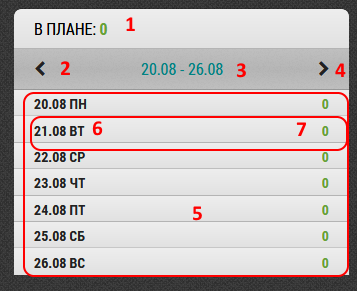
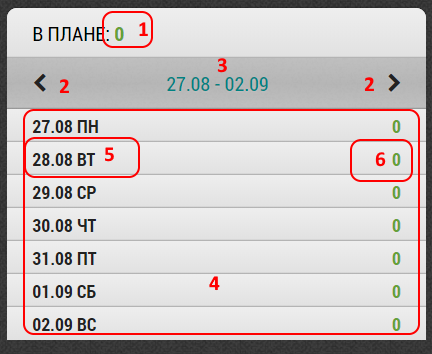
[fix] Переделки по комментариям

Changed region(s): [[0.0, 0.0, 1.0, 0.9897]]

diff --git a/src/guide/rep-planning-full-plan.md b/src/guide/rep-planning-full-plan.md
@@ -1,33 +1,47 @@
-## Планирование. Описание страницы "Подробный план"
+## Описание страницы "Подробный план"
 
 Страница "Подробный план" предназначена для того, 
 чтобы сотрудник мог в подробностях видеть свои прошедшие, текущие и будущие визиты.
+**Эта страница является основной для работы с запланированными визитами на выезде.**
 На странице можно менять дату визита, отменять визит, 
 перейти к редактированию и закрытию визита.
 В целом подробный план соответствует краткому плану, 
 но предоставляет расширенные возможности и информацию.
 
+Интерфейс "Подробный план" состоит из двух частей.
+
 ![](../images/rep-planning-full-plan.png)
 
-В "Подробном плане": 
+Общая часть:
  1. Количество часов в плане на неделю.
  2. Текущий выбранный период. При щелчке переходим к текущей неделе.
  3. Перейти к плану выбранного дня на карте.
  4. Выгрузка плана выбранной недели в ексель.
- 5. Перелистнуть на неделю назад.
+ 5. Перелистнуть на неделю назад или вперед
  6. Выбранный день - с указанием количества часов.
  7. Отметка текущей даты.
- 8. Перелистнуть на неделю вперед.
- 9. Строка с информацией об отдельном визите. 
+ 
+ 
+![](../images/rep-planning-full-plan-visits.png)
+
+И визиты выбранного дня: 
+
+ 1. Строка с информацией об отдельном визите. 
  Время, статус, объект/субъект, информация.
  По нажатию на строку переходим к редактированию/просмотру/закрытию визита.
- 10. Запланированное время визита - для незакрытого визита,
- по нажатию можно изменить [дату визита](rep-planning-full-plan-change-date.md).
- Корзина - удалить визит из плана.
- 11. Галочка означает что визит закрыт.
- 12. Мишень - означает что у визита проставлена цель.
+ 2. Запланированное время визита: 
+  для незакрытого визита - 
+ по нажатию можно изменить [дату визита](rep-planning-full-plan-change-date.md),
+  для закрытого - информация о времени визита.
+ 3. Корзина - удалить визит из плана.
+ 4. Галочка - означает что визит закрыт.
+ 5. Иконки статуса визита: 
+    - Фотоаппарат - у визита есть прикрепленные фото.
+    - Мишень - означает что у визита проставлена цель.
+    - ГеоМетка - визит геоверифицирован.
  
 Фон строки визита означает:
-    - красный фон - просроченный визит
+
+    - красный фон - просроченный визит (с датой визита от вчера или ранее)
     - зеленый - выполненный
-    - синий - текущий - не просроченный и не выполненный
+    - серый - текущий - не просроченный и не выполненный

diff --git a/readme.md b/readme.md
@@ -38,10 +38,10 @@
     - [ ] Страница редактирования субъекта. Описание элементов интерфейса и возможностей
       - [ ] График работы субъекта
       - [ ] Связанные аптеки
-  - [ ] Управление объектами. Описание элементов интерфейса и возможностей.
-    - [ ] Таблица с описанием каждого поля.
-    - [ ] Добавление объекта. Обязательные поля. Внесение адреса. 
-    - [ ] Просмотр объекта на карте.
+  - [ ] Управление объектами. Описание элементов интерфейса и возможностей
+    - [ ] Таблица с описанием каждого поля
+    - [ ] Добавление объекта. Обязательные поля. Внесение адреса
+    - [ ] Просмотр объекта на карте
     - [ ] Страница редактирования объекта. Описание элементов интерфейса и возможностей
       - [ ] Контакты. Описание, добавление, удаление
       - [ ] Добавление субъекта. Описание (добавить нового или существующего)

diff --git a/src/guide/rep-planning-short-plan.md b/src/guide/rep-planning-short-plan.md
@@ -9,13 +9,12 @@
 На "Кратком плане":
 
  1. Количество часов в плане на неделю
- 2. Перелистнуть на неделю назад
+ 2. Перелистнуть на неделю назад или вперед
  3. Текущий выбранный период. При щелчке переходим к текущей неделе
- 4. Перелистнуть на неделю вперед
- 5. Неделя по дням
- 6. Один день из недели - при нажатии переходим к этому дню в 
+ 4. Неделя по дням
+ 5. Один день из недели - при нажатии переходим к этому дню в 
  [подробном плане](rep-planning-full-plan.md)
- 7. Количество часов в плане на этот день
+ 6. Количество часов в плане на этот день
    
 ![](../images/rep-planning-short-plan.png)
 

diff --git a/src/guide/rep-planning-full-plan-change-date.md b/src/guide/rep-planning-full-plan-change-date.md
@@ -1,8 +1,10 @@
-## Планирование. Подробный план. Изменение даты визита.
+## Изменение даты визита
 
 ![](../images/rep-planning-full-plan-change-date.png)
 
-Чтобы изменить дату визита (не закрытого), необходимо перейти в подробный план,
+**Дату визита можно изменить только у незакрытого визита**
+
+Чтобы изменить дату визита, необходимо перейти в подробный план,
 найти строку с этим визитом, и нажать там на кнопку с временем визита.
 
 Откроется календарь с выбором даты и времени визита.
